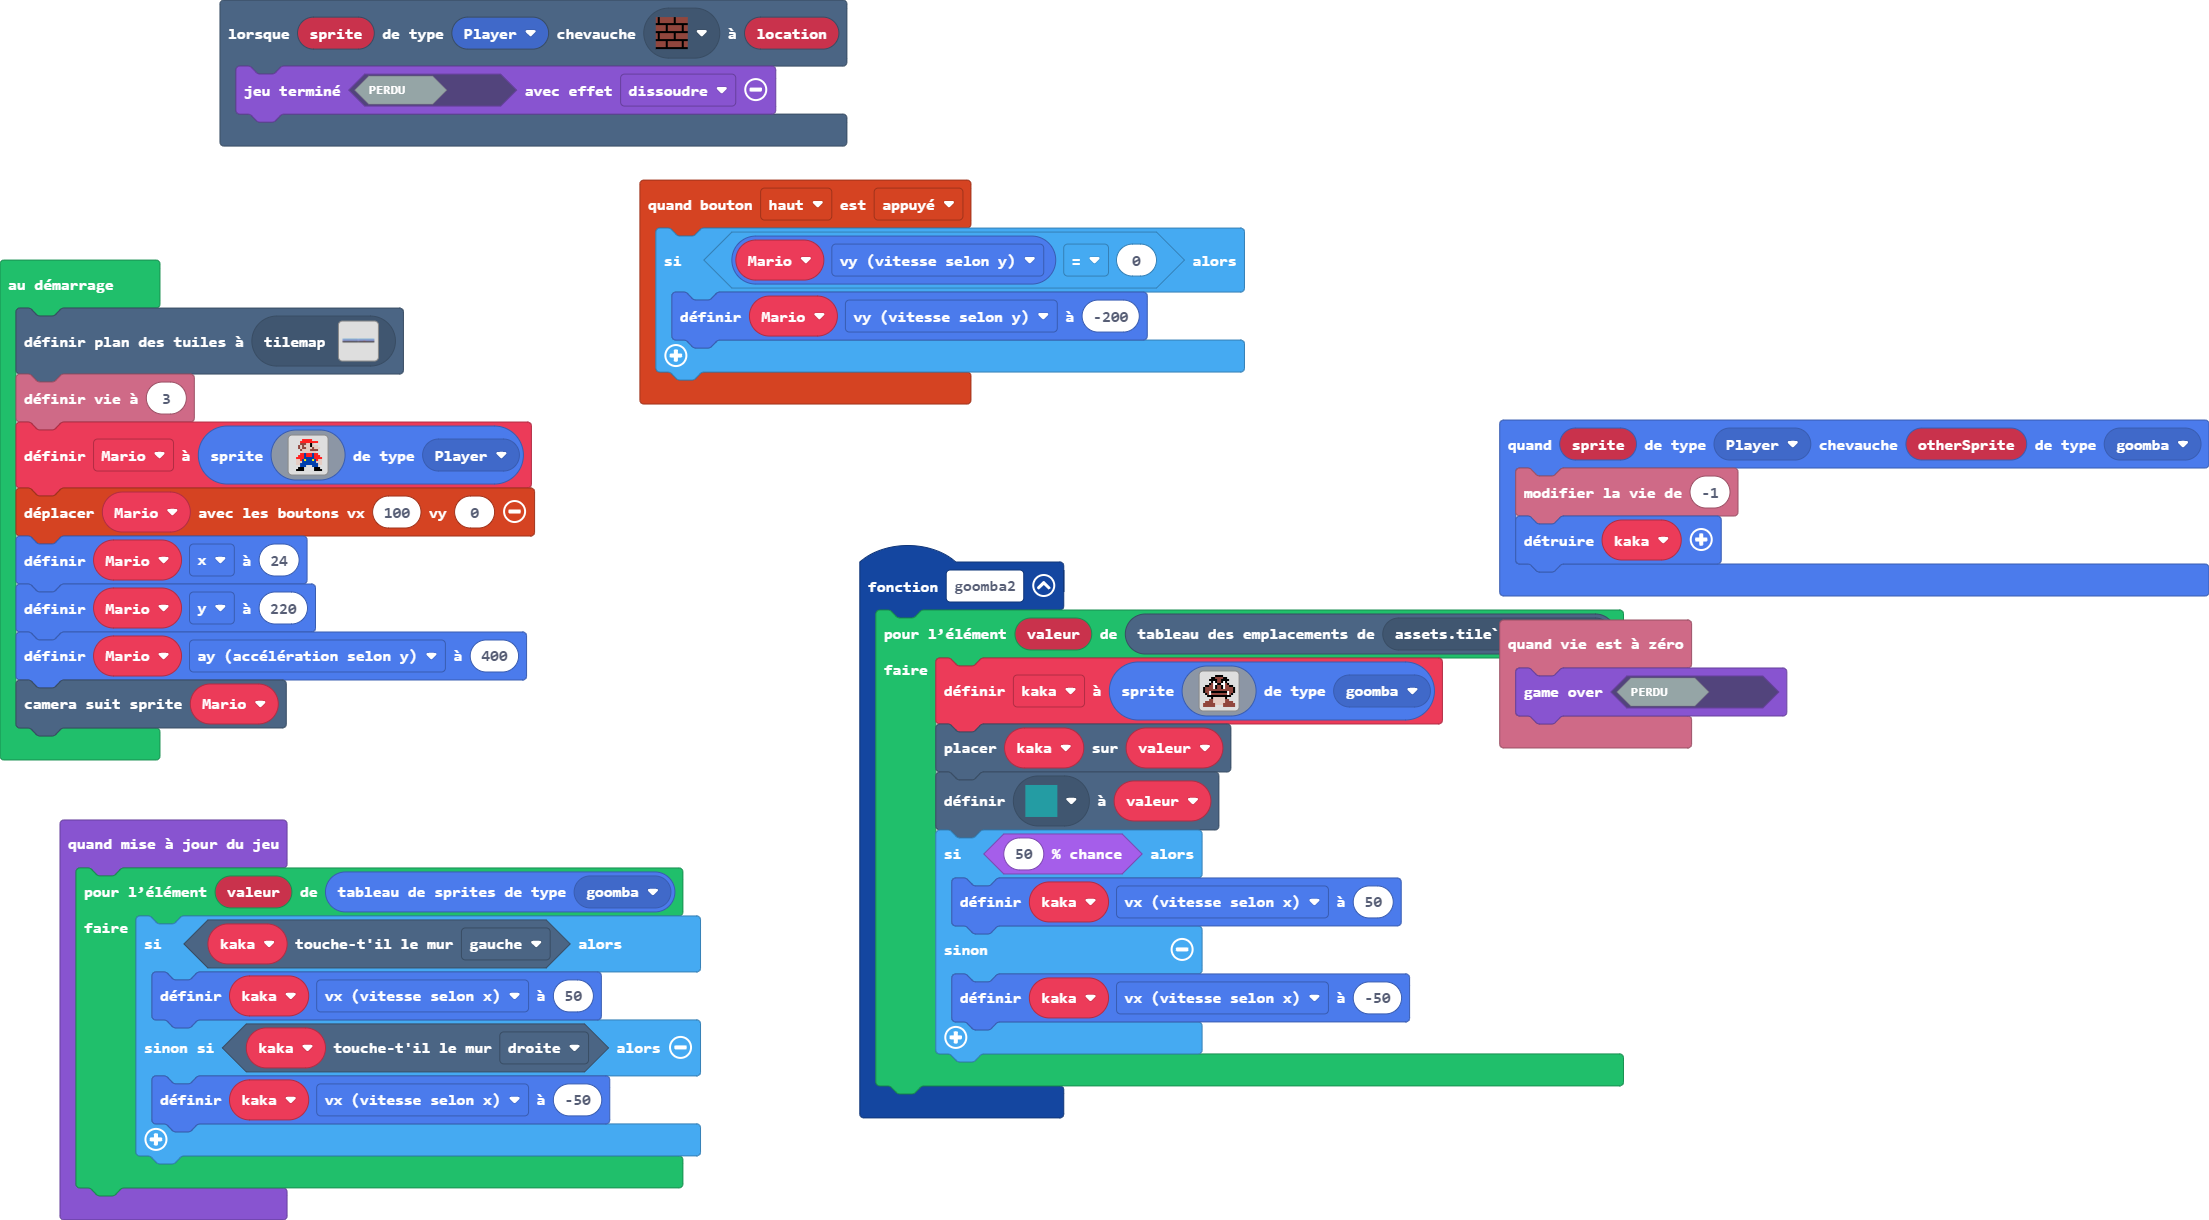
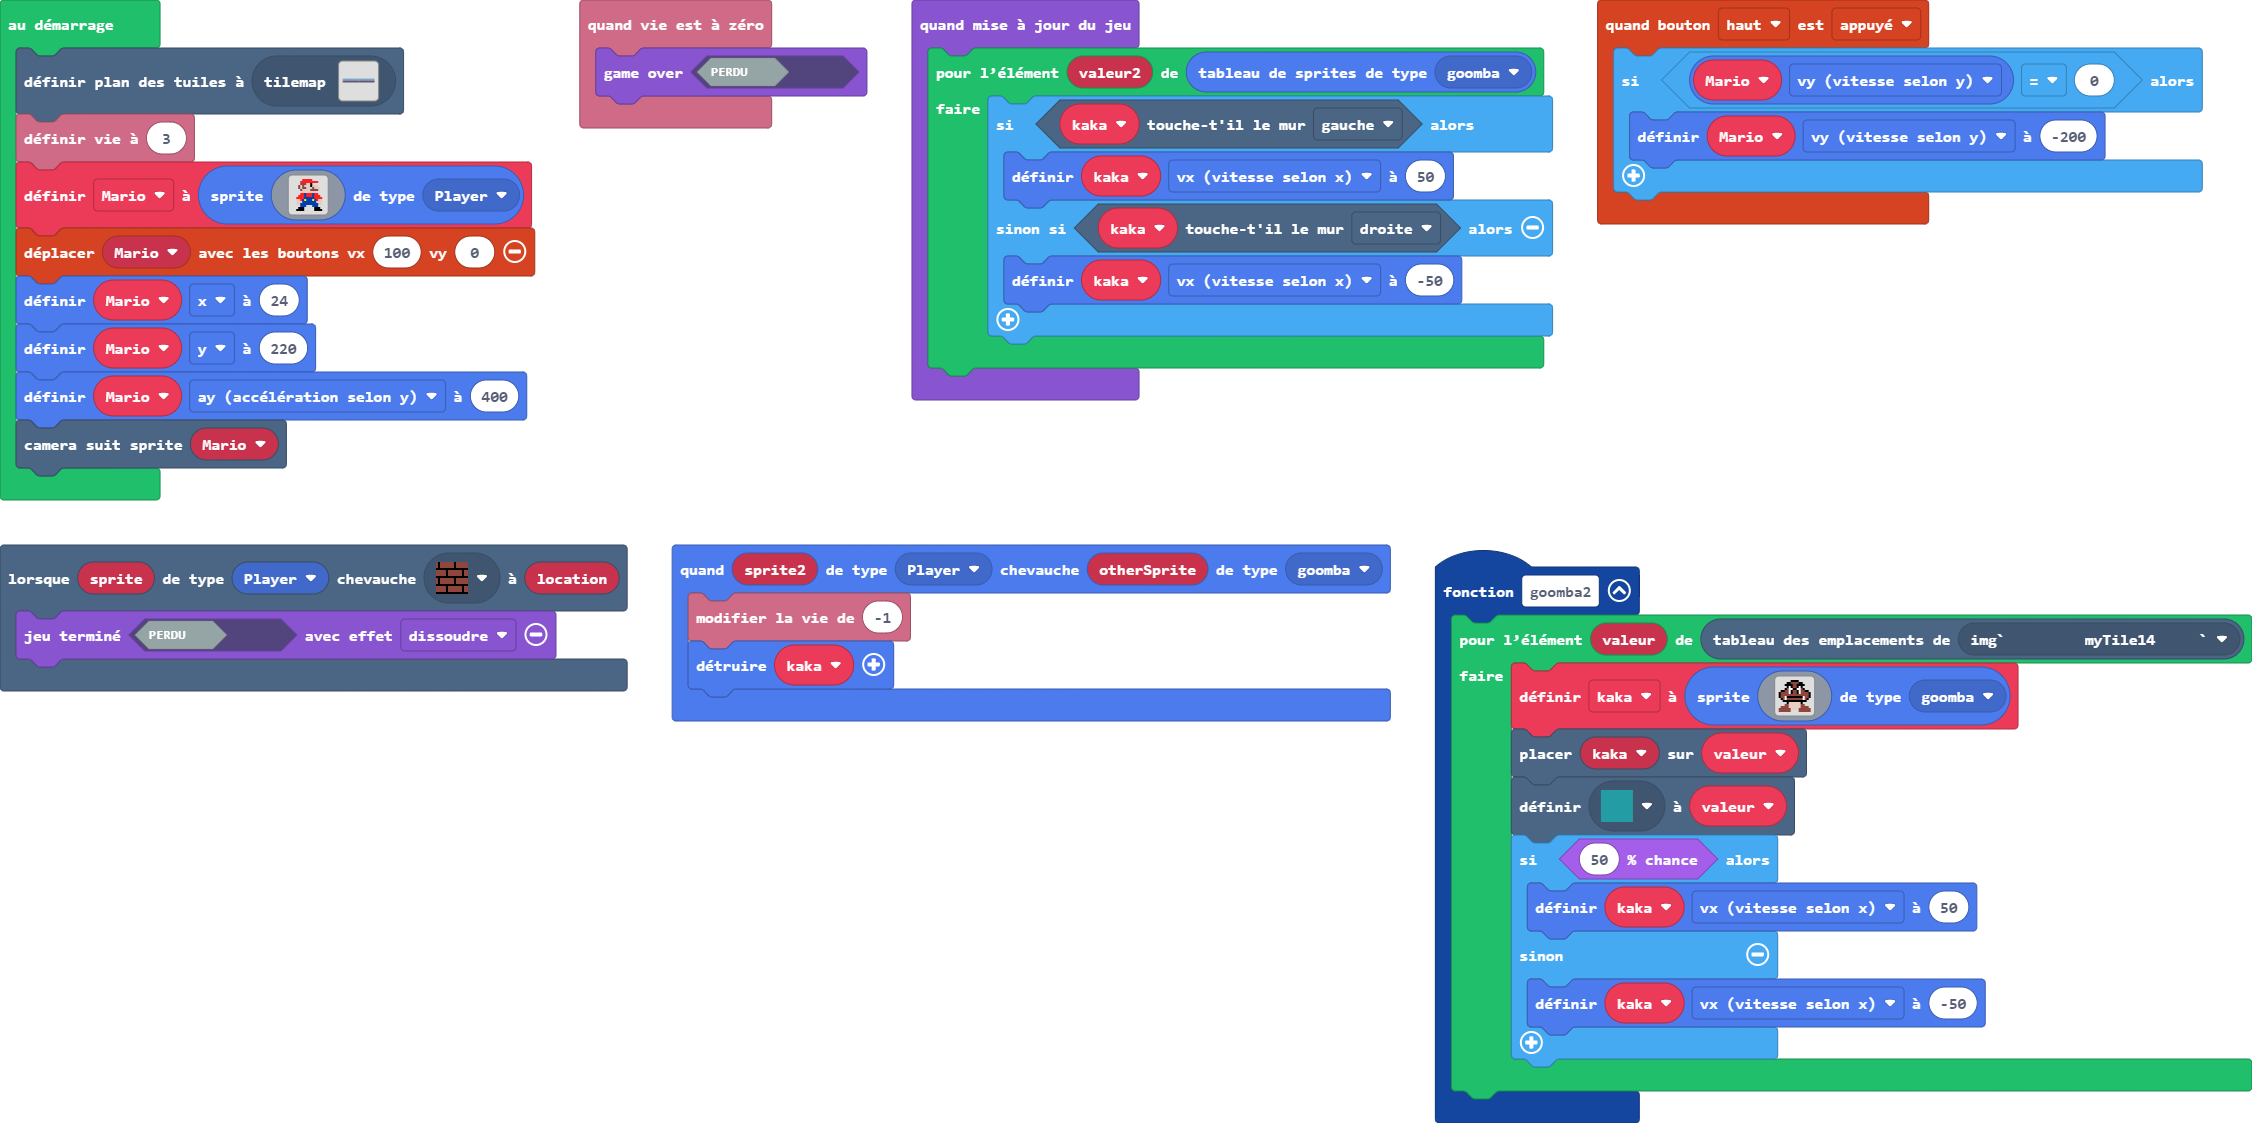
Mise à jour pxt.json, main.blocks, main.ts, tilemap.g.jres, tilemap.g.ts, main.py

diff --git a/tilemap.g.ts b/tilemap.g.ts
@@ -173,8 +173,46 @@ namespace myTiles {
 . . . . . . . . . . . . . . . . 
 . . . . . . . . . . . . . . . . 
 `, [myTiles.transparency16], TileScale.Sixteen);
+            case "niveau":
+            case "niveau9":return tiles.createTilemap(hex`1000100000000000000000000000000000000000000000000000000000000000000000000000000000000000000000000000000000000000000000000000000000000000000000000000000000000000000000000000000000000000000000000000000000000000000000000000000000000000000000000000000000000000000000000000000000000000000000000000000000000000000000000000000000000000000000000000000000000000000000000000000000000000000000000000000000000000000000000000000000000000000000000000000000000000000000000000000000000000000000000000000000000000000000000000000000000000`, img`
+. . . . . . . . . . . . . . . . 
+. . . . . . . . . . . . . . . . 
+. . . . . . . . . . . . . . . . 
+. . . . . . . . . . . . . . . . 
+. . . . . . . . . . . . . . . . 
+. . . . . . . . . . . . . . . . 
+. . . . . . . . . . . . . . . . 
+. . . . . . . . . . . . . . . . 
+. . . . . . . . . . . . . . . . 
+. . . . . . . . . . . . . . . . 
+. . . . . . . . . . . . . . . . 
+. . . . . . . . . . . . . . . . 
+. . . . . . . . . . . . . . . . 
+. . . . . . . . . . . . . . . . 
+. . . . . . . . . . . . . . . . 
+. . . . . . . . . . . . . . . . 
+`, [myTiles.transparency16], TileScale.Sixteen);
+            case "niveau10":
+            case "niveau10":return tiles.createTilemap(hex`1000100000000000000000000000000000000000000000000000000000000000000000000000000000000000000000000000000000000000000000000000000000000000000000000000000000000000000000000000000000000000000000000000000000000000000000000000000000000000000000000000000000000000000000000000000000000000000000000000000000000000000000000000000000000000000000000000000000000000000000000000000000000000000000000000000000000000000000000000000000000000000000000000000000000000000000000000000000000000000000000000000000000000000000000000000000000000`, img`
+. . . . . . . . . . . . . . . . 
+. . . . . . . . . . . . . . . . 
+. . . . . . . . . . . . . . . . 
+. . . . . . . . . . . . . . . . 
+. . . . . . . . . . . . . . . . 
+. . . . . . . . . . . . . . . . 
+. . . . . . . . . . . . . . . . 
+. . . . . . . . . . . . . . . . 
+. . . . . . . . . . . . . . . . 
+. . . . . . . . . . . . . . . . 
+. . . . . . . . . . . . . . . . 
+. . . . . . . . . . . . . . . . 
+. . . . . . . . . . . . . . . . 
+. . . . . . . . . . . . . . . . 
+. . . . . . . . . . . . . . . . 
+. . . . . . . . . . . . . . . . 
+`, [myTiles.transparency16], TileScale.Sixteen);
             case "niveau1":
[2 lines of base64/hex data omitted]
 ...............................................................................................................................................................................................................................................................
 ...............................................................................................................................................................................................................................................................
 ...............................................................................................................................................................................................................................................................
@@ -201,25 +239,6 @@ namespace myTiles {
 ...............................................................................................................................................................................................................................................................
 ...............................................................................................................................................................................................................................................................
 `, [myTiles.transparency16,myTiles.tile1,myTiles.tile2,myTiles.tile3,myTiles.tile7,myTiles.tile8,myTiles.tile9,myTiles.tile10,myTiles.tile11,myTiles.tile12,myTiles.tile4,myTiles.tile6], TileScale.Sixteen);
-            case "niveau":
-            case "niveau9":return tiles.createTilemap(hex`1000100000000000000000000000000000000000000000000000000000000000000000000000000000000000000000000000000000000000000000000000000000000000000000000000000000000000000000000000000000000000000000000000000000000000000000000000000000000000000000000000000000000000000000000000000000000000000000000000000000000000000000000000000000000000000000000000000000000000000000000000000000000000000000000000000000000000000000000000000000000000000000000000000000000000000000000000000000000000000000000000000000000000000000000000000000000000`, img`
-. . . . . . . . . . . . . . . . 
-. . . . . . . . . . . . . . . . 
-. . . . . . . . . . . . . . . . 
-. . . . . . . . . . . . . . . . 
-. . . . . . . . . . . . . . . . 
-. . . . . . . . . . . . . . . . 
-. . . . . . . . . . . . . . . . 
-. . . . . . . . . . . . . . . . 
-. . . . . . . . . . . . . . . . 
-. . . . . . . . . . . . . . . . 
-. . . . . . . . . . . . . . . . 
-. . . . . . . . . . . . . . . . 
-. . . . . . . . . . . . . . . . 
-. . . . . . . . . . . . . . . . 
-. . . . . . . . . . . . . . . . 
-. . . . . . . . . . . . . . . . 
-`, [myTiles.transparency16], TileScale.Sixteen);
         }
         return null;
     })

diff --git a/main.ts b/main.ts
@@ -5,7 +5,9 @@ scene.onOverlapTile(SpriteKind.Player, assets.tile`myTile`, function (sprite, lo
     game.over(false, effects.dissolve)
 })
 function goomba2 () {
-    for (let valeur of tiles.getTilesByType(assets.tile`myTile14`)) {
+    for (let valeur of tiles.getTilesByType(img`
+                myTile14
+            `)) {
         kaka = sprites.create(img`
             . . . . . . f f f f . . . . . . 
             . . . . f f e e e e f f . . . . 
@@ -38,12 +40,12 @@ controller.up.onEvent(ControllerButtonEvent.Pressed, function () {
         Mario.vy = -200
     }
 })
-info.onLifeZero(function () {
-    game.gameOver(false)
-})
-sprites.onOverlap(SpriteKind.Player, SpriteKind.goomba, function (sprite, otherSprite) {
+sprites.onOverlap(SpriteKind.Player, SpriteKind.goomba, function (sprite2, otherSprite) {
     info.changeLifeBy(-1)
     kaka.destroy()
+})
+info.onLifeZero(function () {
+    game.gameOver(false)
 })
 let kaka: Sprite = null
 let Mario: Sprite = null
@@ -73,7 +75,7 @@ Mario.y = 220
 Mario.ay = 400
 scene.cameraFollowSprite(Mario)
 game.onUpdate(function () {
-    for (let valeur of sprites.allOfKind(SpriteKind.goomba)) {
+    for (let valeur2 of sprites.allOfKind(SpriteKind.goomba)) {
         if (kaka.isHittingTile(CollisionDirection.Left)) {
             kaka.vx = 50
         } else if (kaka.isHittingTile(CollisionDirection.Right)) {

diff --git a/main.py b/main.py
@@ -1,0 +1,97 @@
+@namespace
+class SpriteKind:
+    goomba = SpriteKind.create()
+
+def on_overlap_tile(sprite, location):
+    game.over(False, effects.dissolve)
+scene.on_overlap_tile(SpriteKind.player,
+    assets.tile("""
+        myTile
+    """),
+    on_overlap_tile)
+
+def goomba2():
+    global kaka
+    for valeur in tiles.get_tiles_by_type(assets.tile("""
+        myTile14
+    """)):
+        kaka = sprites.create(img("""
+                . . . . . . f f f f . . . . . . 
+                            . . . . f f e e e e f f . . . . 
+                            . . . f f f f e e f f f f . . . 
+                            . . . . f 1 f e e f 1 f . . . . 
+                            . . . f e 1 1 f f 1 1 e f . . . 
+                            . f f e e 1 f e e f 1 e e f f . 
+                            f e e e e 1 f e e f 1 e e e e f 
+                            f e e e e e e e e e e e e e e f 
+                            f e e 1 f f f f f f f f 1 e e f 
+                            . f e 1 e e e e e e e e 1 e f . 
+                            . . f f f f f f f f f f f f . . 
+                            . . . . f d d d d d d f . . . . 
+                            . . . e e d d d d d d e e . . . 
+                            . e e e e d d d d d d e e e e . 
+                            e e e e e e d d d d e e e e e e 
+                            e e e e e e . . . . e e e e e e
+            """),
+            SpriteKind.goomba)
+        tiles.place_on_tile(kaka, valeur)
+        tiles.set_tile_at(valeur, assets.tile("""
+            myTile6
+        """))
+        if Math.percent_chance(50):
+            kaka.vx = 50
+        else:
+            kaka.vx = -50
+
+def on_up_pressed():
+    if Mario.vy == 0:
+        Mario.vy = -200
+controller.up.on_event(ControllerButtonEvent.PRESSED, on_up_pressed)
+
+def on_life_zero():
+    game.game_over(False)
+info.on_life_zero(on_life_zero)
+
+def on_on_overlap(sprite2, otherSprite):
+    info.change_life_by(-1)
+    kaka.destroy()
+sprites.on_overlap(SpriteKind.player, SpriteKind.goomba, on_on_overlap)
+
+kaka: Sprite = None
+Mario: Sprite = None
+tiles.set_current_tilemap(tilemap("""
+    niveau1
+"""))
+info.set_life(3)
+Mario = sprites.create(img("""
+        . . . . . 2 2 2 2 2 . . . . . . 
+            . . . . 2 2 2 2 2 2 2 2 2 . . . 
+            . . . . e e e d d f d . . . . . 
+            . . . e d e d d d f d d d . . . 
+            . . . e d e e d d d e d d d . . 
+            . . . . e d d d d e e e e . . . 
+            . . . . . d d d d d d d . . . . 
+            . . . . 2 2 8 2 2 2 8 2 2 . . . 
+            . . . 2 2 2 8 2 2 2 8 2 2 2 . . 
+            . . 2 2 2 2 8 8 8 8 8 2 2 2 2 . 
+            . . d d 2 8 5 8 8 8 5 8 2 d d . 
+            . . d d d 8 8 8 8 8 8 8 d d d . 
+            . . d d 8 8 8 8 8 8 8 8 8 d d . 
+            . . . . 8 8 8 . . . 8 8 8 . . . 
+            . . . f f f . . . . . f f f . . 
+            . . f f f f . . . . . f f f f .
+    """),
+    SpriteKind.player)
+controller.move_sprite(Mario, 100, 0)
+Mario.x = 24
+Mario.y = 220
+Mario.ay = 400
+scene.camera_follow_sprite(Mario)
+
+def on_on_update():
+    for valeur2 in sprites.all_of_kind(SpriteKind.goomba):
+        if kaka.is_hitting_tile(CollisionDirection.LEFT):
+            kaka.vx = 50
+        elif kaka.is_hitting_tile(CollisionDirection.RIGHT):
+            kaka.vx = -50
+game.on_update(on_on_update)
